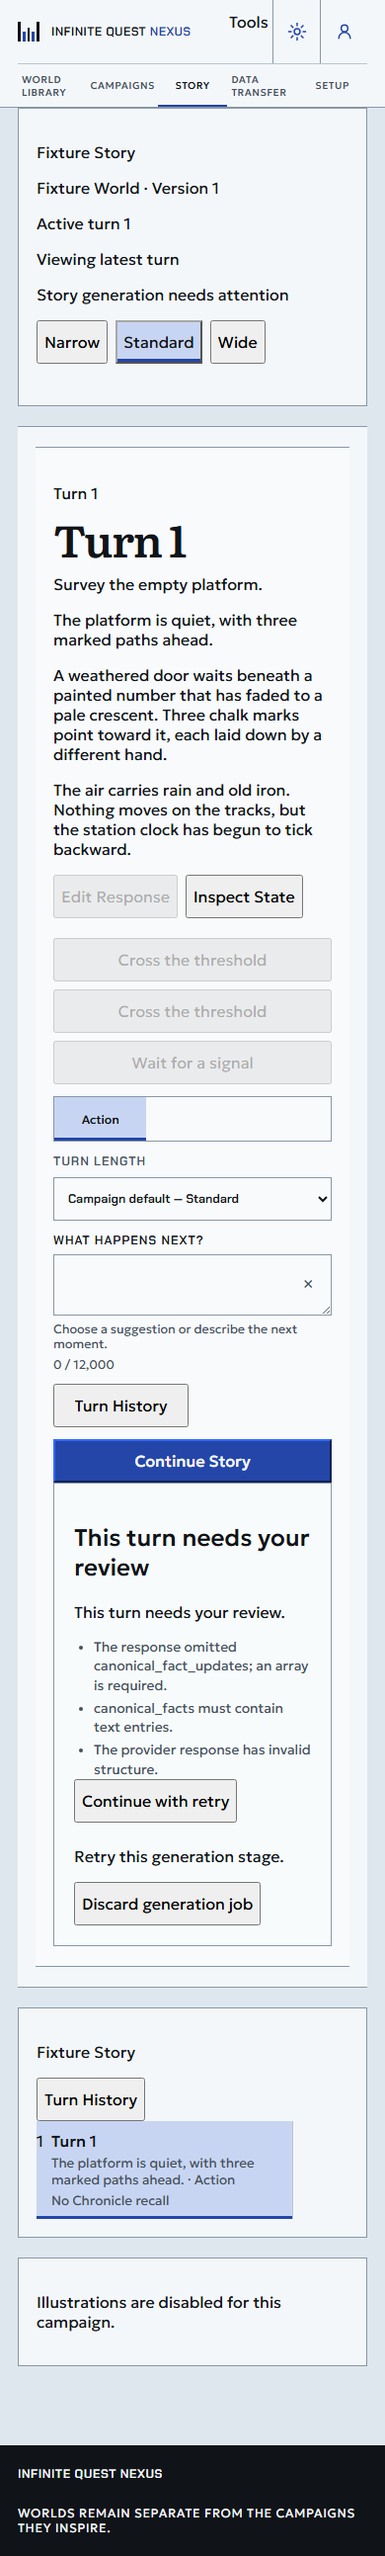
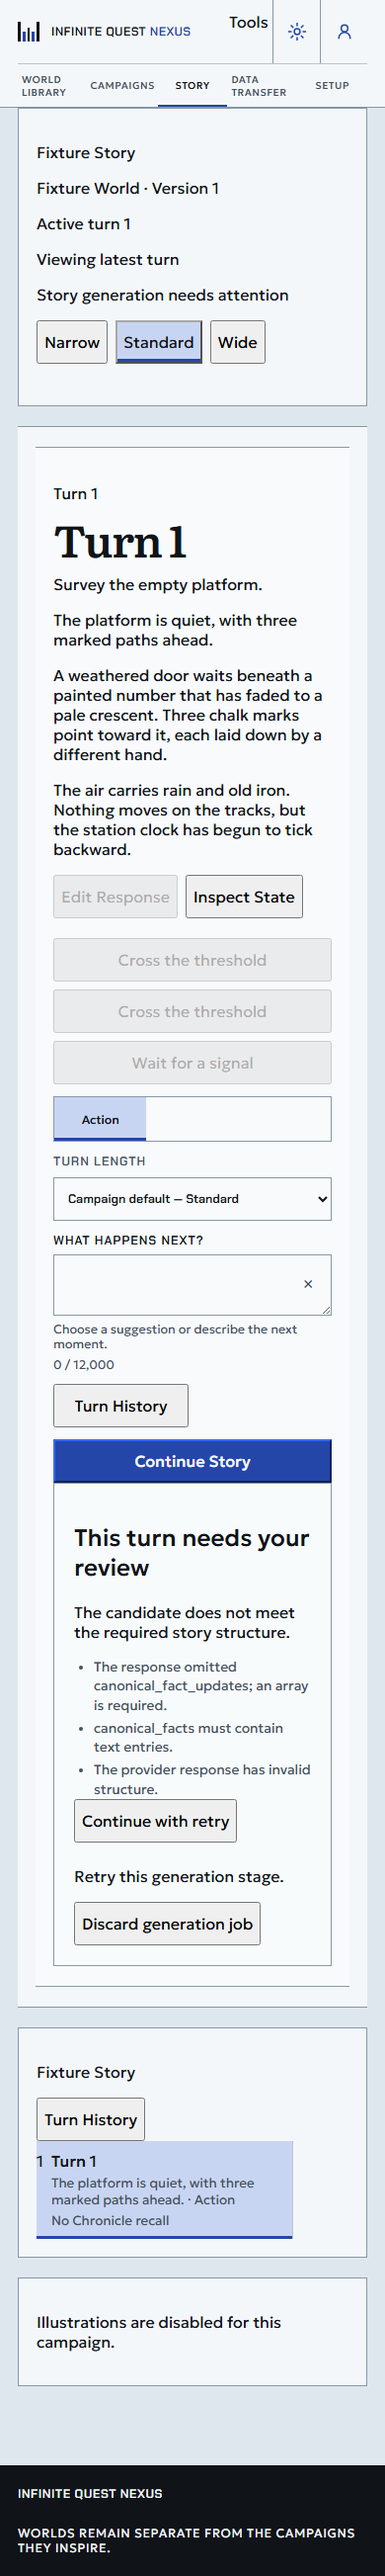
Harden generation review diagnostic fallback

diff --git a/tests/e2e/generation-review.e2e.test.ts b/tests/e2e/generation-review.e2e.test.ts
@@ -30,6 +30,7 @@ interface ReviewFixtureOptions {
   readonly replaceLatest?: boolean;
   readonly structureReview?: boolean;
   readonly validationIssues?: readonly { field: "superseded_facts" | "canonical_fact_updates" | "canonical_facts"; code: "missing_array" | "expected_string_item" | "invalid_field_shape" }[];
+  readonly malformedReviewDetail?: unknown;
 }
 
 async function installReviewApi(page: Page, canKeep = true, decisionFails = false, decisionCompletes = false, options: ReviewFixtureOptions = {}) {
@@ -107,7 +108,7 @@ async function installReviewApi(page: Page, canKeep = true, decisionFails = fals
   generationJobSnapshotSchema.parse(reofferedSnapshot);
   generationJobSnapshotSchema.parse(reofferedQueuedSnapshot);
   generationJobSnapshotSchema.parse(reofferedCompletedSnapshot);
-  generationReviewDetailSchema.parse(detail);
+  if (options.malformedReviewDetail === undefined) generationReviewDetailSchema.parse(detail);
   await page.route("**/api/v1/**", async route => {
     const request = route.request(); const path = new URL(request.url()).pathname;
     if (request.method() !== "GET") writePaths.push(`${request.method()} ${path}`);
@@ -152,7 +153,7 @@ async function installReviewApi(page: Page, canKeep = true, decisionFails = fals
       if (options.delayReviewDetailMs) await new Promise<void>((resolve) => setTimeout(resolve, options.delayReviewDetailMs));
       settledReviewDetailRequests += 1;
       if (options.failReviewDetail) return respond({ error: "Review detail unavailable" }, 503);
-      return respond(reoffered ? reofferedDetail : detail);
+      return respond(reoffered ? reofferedDetail : (options.malformedReviewDetail ?? detail));
     }
     if (request.method() === "POST" && path === `/api/v1/generation-jobs/${jobId}/review-decision`) {
       const decision = request.postDataJSON() as { decision?: string };
@@ -306,6 +307,30 @@ for (const surface of ["legacy", "web-next"] as const) {
     await expect(activeTurn).toHaveText(surface === "legacy" ? "Turn 1" : "Active turn 1");
     await expect(turnTwo).toHaveCount(0);
     expect(api.writePaths).toEqual([`POST /api/v1/generation-jobs/${jobId}/review-decision`]);
+  });
+
+  test(`${surface} rejects malformed validation issue detail without rendering its canary`, async ({ page }) => {
+    const privateCanary = "PRIVATE_MALFORMED_VALIDATION_ISSUE_CANARY";
+    const api = await installReviewApi(page, false, false, false, {
+      structureReview: true,
+      malformedReviewDetail: {
+        version: 1, reviewId, revision: 1, state: "pending", stage: "structure", candidateScope: "final",
+        reasons: ["invalid_structure"], canKeep: false, canRetry: true, narration: null, choices: [],
+        findings: [{ code: "invalid_structure", message: privateCanary }], retryDescription: "Retry this generation stage.",
+        retryFailure: null, omittedFindingCount: 0,
+        validationIssues: [{ field: privateCanary, code: "raw_provider_message", message: privateCanary }]
+      }
+    });
+    if (surface === "legacy") {
+      const html = (await readFile("apps/web/public/story.html", "utf8")).replace("/nexus/legacy-client.js", "/nexus/src/legacy-client-entry.ts");
+      await page.route("**/vendor/photoswipe/photoswipe.css", route => route.fulfill({ contentType: "text/css", body: "" }));
+      await page.route(`**/story/${api.fixture.campaignId}`, route => route.fulfill({ contentType: "text/html", body: html }));
+    }
+    await page.goto(surface === "legacy" ? `${legacyOrigin}/story/${api.fixture.campaignId}` : `${webNextOrigin}/app/story/${api.fixture.campaignId}`);
+    const recovery = page.locator(surface === "legacy" ? "#generationRecoveryPanel" : "[data-story-recovery]");
+    await expect(recovery).toContainText("The candidate does not meet the required story structure.");
+    await expect(recovery).not.toContainText(privateCanary);
+    await expect(recovery.getByRole("button", { name: "Continue with retry", exact: true })).toBeVisible();
   });
 
   test(`${surface} renders a saved review and posts only an explicit Keep decision`, async ({ page }) => {

diff --git a/tests/unit/generation-review-projection.test.ts b/tests/unit/generation-review-projection.test.ts
@@ -4,6 +4,7 @@ import {
   projectGenerationReviewSnapshot
 } from "../../services/api/src/generation-review-projection.js";
 import { projectGenerationReviewDetail } from "../../packages/contracts/src/generation-review.js";
+import { generationReviewPresentation } from "../../packages/client-core/src/generation/projection.js";
 
 const reviewId = "aaaaaaaa-aaaa-4aaa-8aaa-aaaaaaaaaaaa";
 
@@ -95,5 +96,25 @@ describe("generation review public projection", () => {
     });
     expect(detail.validationIssues).toEqual([{ field: "canonical_fact_updates", code: "missing_array" }]);
     expect(JSON.stringify(detail)).not.toContain(privateCanary);
+  });
+
+  test("rejects malformed validation issues and retains the generic structure fallback", () => {
+    const privateCanary = "PRIVATE_MALFORMED_VALIDATION_ISSUE_CANARY";
+    const malformed = {
+      version: 1, reviewId, revision: 1, state: "pending", stage: "structure", candidateScope: "final",
+      reasons: ["invalid_structure"], canKeep: false, canRetry: true, narration: null, choices: [],
+      findings: [{ code: "invalid_structure", message: "The candidate does not meet the required story structure." }],
+      retryDescription: "Retry this generation stage.", retryFailure: null, omittedFindingCount: 0,
+      validationIssues: [{ field: privateCanary, code: "raw_provider_message", message: privateCanary }]
+    };
+    expect(() => projectGenerationReviewDetailResponse(malformed)).toThrow();
+    expect(JSON.stringify(generationReviewPresentation({
+      version: 1, reviewId, revision: 1, state: "pending", stage: "structure", candidateScope: "final",
+      reasons: ["invalid_structure"], canKeep: false, canRetry: true
+    }, undefined, malformed))).not.toContain(privateCanary);
+    expect(generationReviewPresentation({
+      version: 1, reviewId, revision: 1, state: "pending", stage: "structure", candidateScope: "final",
+      reasons: ["invalid_structure"], canKeep: false, canRetry: true
+    }, undefined, malformed).message).toBe("The candidate does not meet the required story structure.");
   });
 });

diff --git a/tests/integration/generation-review.integration.test.ts b/tests/integration/generation-review.integration.test.ts
@@ -153,16 +153,18 @@ integration("PostgreSQL generation review persistence", () => {
     });
   });
 
-  it("binds diagnostics to one producing response and omits stale or ambiguous attempts", async () => {
+  it("binds diagnostics to the candidate response instead of a later attempt and omits ambiguity", async () => {
     const fixture = await pendingReview();
     const repository = commands();
     const insert = (number: number, responseId: string, errors: readonly string[]) => pool.query(
       `INSERT INTO generation_attempts (owner_user_id, generation_job_id, attempt_number, provider_response_id, validation_errors)
        VALUES ($1,$2,$3,$4,$5::jsonb)`, [ownerUserId, fixture.queued.id, number, responseId, JSON.stringify(errors)]
     );
-    await insert(1, "stale-response", ["canonical_facts.0: Invalid input: expected string, received object"]);
-    await expect(repository.getReview({ ownerUserId, jobId: fixture.queued.id })).resolves.not.toHaveProperty("validationIssues");
-    await insert(2, "review-response", ["canonical_facts.0: Invalid input: expected string, received object"]);
+    await insert(1, "review-response", ["canonical_facts.0: Invalid input: expected string, received object"]);
+    await expect(repository.getReview({ ownerUserId, jobId: fixture.queued.id })).resolves.toMatchObject({
+      validationIssues: [{ field: "canonical_facts", code: "expected_string_item" }]
+    });
+    await insert(2, "later-unrelated-response", ["canonical_fact_updates: Invalid input: expected array, received undefined"]);
     await expect(repository.getReview({ ownerUserId, jobId: fixture.queued.id })).resolves.toMatchObject({
       validationIssues: [{ field: "canonical_facts", code: "expected_string_item" }]
     });

diff --git a/packages/client-core/src/generation/projection.ts b/packages/client-core/src/generation/projection.ts
@@ -88,9 +88,12 @@ export function generationReviewPresentation(review: unknown, _diagnostic?: unkn
   const matchesDetail = parsedDetail.success
     && parsedDetail.data.reviewId === summary.data.reviewId
     && parsedDetail.data.revision === summary.data.revision;
+  const fallbackMessage = summary.data.reasons.includes("invalid_structure")
+    ? "The candidate does not meet the required story structure."
+    : "This turn needs your review.";
   return {
     state: "review",
-    message: "This turn needs your review.",
+    message: fallbackMessage,
     canKeep: summary.data.canKeep,
     canRetry: summary.data.canRetry,
     keepDescription: summary.data.candidateScope === "main"
